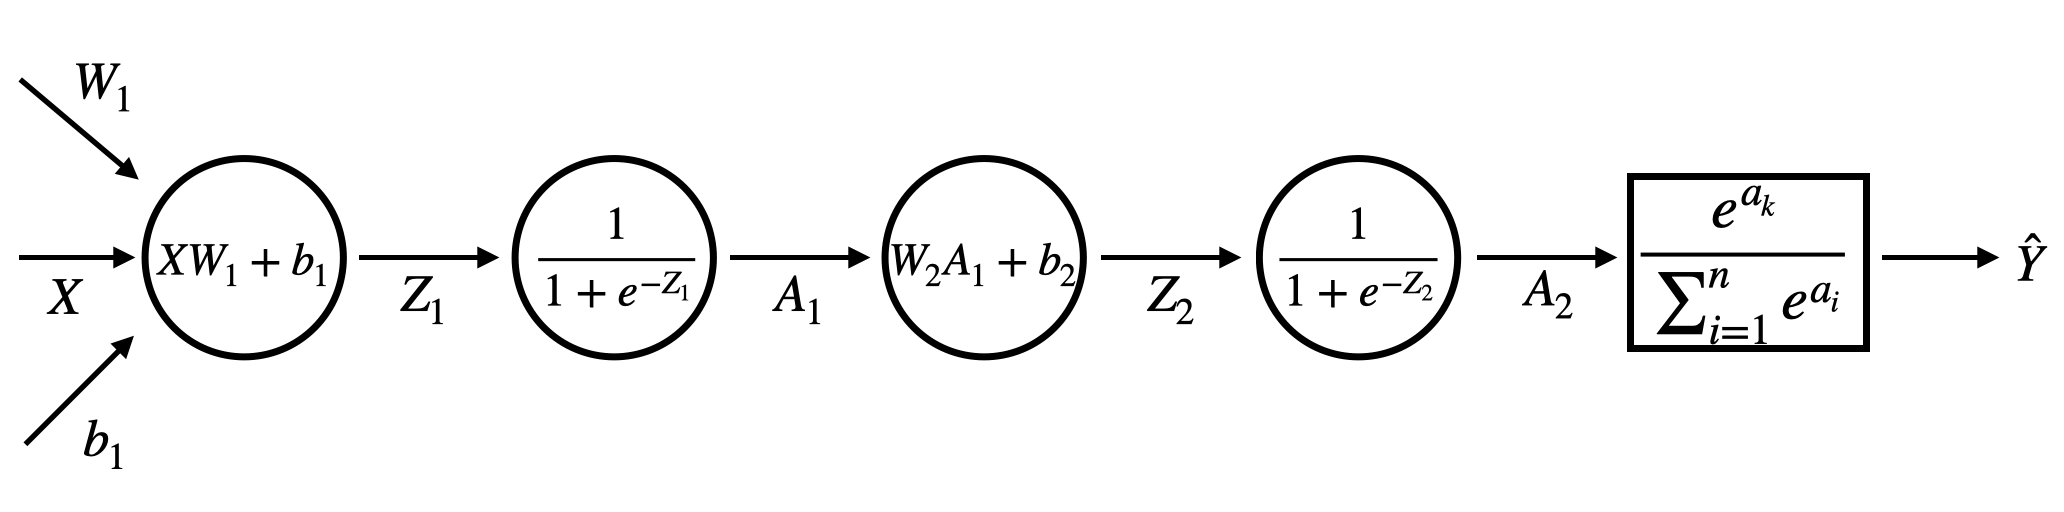
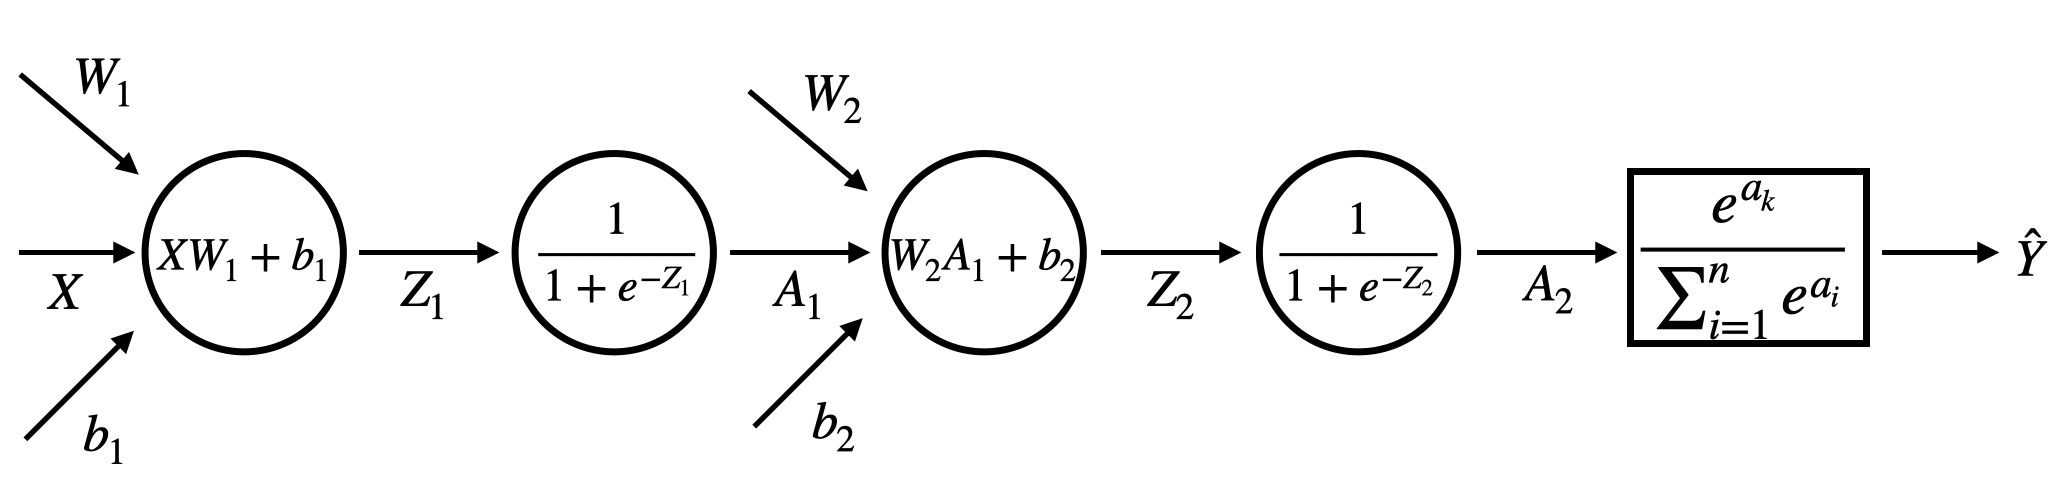
Site updated: 2020-04-05 01:51:09

diff --git a/2020/04/01/Deeplearning-5/index.html b/2020/04/01/Deeplearning-5/index.html
@@ -56,7 +56,7 @@
 <meta property="og:image" content="https://hyeonji-ryu.github.io/images/36.png">
 <meta property="og:image" content="https://hyeonji-ryu.github.io/images/37.png">
 <meta property="article:published_time" content="2020-04-01T08:59:47.000Z">
-<meta property="article:modified_time" content="2020-04-04T15:54:44.114Z">
+<meta property="article:modified_time" content="2020-04-04T16:50:22.185Z">
 <meta property="article:author" content="Hyeonji Ryu">
 <meta property="article:tag" content="딥러닝">
 <meta property="article:tag" content="머신러닝">
@@ -246,7 +246,7 @@
                   <i class="fa fa-calendar-check-o"></i>
                 </span>
                 <span class="post-meta-item-text">Edited on</span>
-                <time title="Updated at: 2020-04-05 00:54:44" itemprop="dateModified" datetime="2020-04-05T00:54:44+09:00">2020-04-05</time>
+                <time title="Updated at: 2020-04-05 01:50:22" itemprop="dateModified" datetime="2020-04-05T01:50:22+09:00">2020-04-05</time>
               </span>
             <span class="post-meta-item">
               <span class="post-meta-item-icon">
@@ -289,17 +289,17 @@ W_1:
  \end{bmatrix}\quad
 W_2:
 \begin{bmatrix}
- w2_{11} & w2_{12}\\
- w2_{21} & w2_{22}\\
+ w2_{11} & w2_{12} & w2_{13}\\
+ w2_{21} & w2_{22} & w2_{23}\\
  \end{bmatrix}</script><script type="math/tex; mode=display">B_1:
 \begin{bmatrix}
 b1_1 & b1_2
  \end{bmatrix}\quad
  B_2:
 \begin{bmatrix}
- b2_1 & b2_2
+ b2_1 & b2_2 & b2_3
  \end{bmatrix}</script><p>먼저 입력값인 $X$와 가중치 $W_1, W_2$, 편향 $b_1, b_2$가 배열로 전제된다. 여기서 가중치와 편향은 뒤의 경사하강법으로 조정할 것이기에 무작위 값을 사용한다.</p>
-<script type="math/tex; mode=display">Z_1 = XW_1+b_1</script><script type="math/tex; mode=display">Z_1=
+<script type="math/tex; mode=display">Z1 = XW_1+b_1</script><script type="math/tex; mode=display">Z1=
 \begin{bmatrix}
  x_1 & x_2 \\
  \end{bmatrix}
@@ -315,31 +315,24 @@ b1_1 & b1_2
 \begin{bmatrix}
 x_1w1_{11}+x_2w1_{21}+b1_1 & x_1w1_{12}+x_2w1_{22}+b1_2
 \end{bmatrix}</script><p>먼저 입력값에 첫 번째 가중치인 $W_1$을 곱하고 첫 번째 편향인 $B_1$ 더한다. 입력값과 가중치, 편향 모두 배열이기에 이 계산은 배열 단위로 이루어진다. 즉, 행렬곱과 행렬덧셈이 사용되는 것이다. 이 과정은 입력값이 첫 번째 활성화 함수로 넘어가기 전에 이루어진다.</p>
-<script type="math/tex; mode=display">A_1 = \cfrac{1}{1+e^{-(XW_1+b_1)}}</script><script type="math/tex; mode=display">A_1 =
+<script type="math/tex; mode=display">A1 = \cfrac{1}{1+e^{-Z1}}</script><script type="math/tex; mode=display">A1 =
 \begin{bmatrix}
-\cfrac{1}{1+e^{-(x_1w1_{11}+x_2w1_{21}+b1_1)}} & \cfrac{1}{1+e^{-(x_1w1_{12}+x_2w1_{22}+b1_2)}}
+\cfrac{1}{1+e^{-Z1_1}} & \cfrac{1}{1+e^{-Z1_2}}
 \end{bmatrix}</script><p>그 다음, 위의 $Z_1$을 활성화 함수에 대입하면 된다. 여기서 $Z_1$은 행렬인데 위의 수식을 $Z_1$의 요소에 각각 적용한다. 참고로 위 식에서 사용된 활성화 함수는 시그모이드 함수이다. 이 과정은 입력값이 첫 번째 은닉층에 도착한 것이다.</p>
-<script type="math/tex; mode=display">Z_2 = \bigg(\cfrac{W_2}{1+e^{-(XW_1+b_1)}}\bigg)\times W_2+b_2</script><script type="math/tex; mode=display">Z_2 =
+<script type="math/tex; mode=display">Z2 = \bigg(\cfrac{W_2}{1+e^{-Z1)}}\bigg)+b_2</script><script type="math/tex; mode=display">=
 \begin{bmatrix}
-\cfrac{1}{1+e^{-(x_1w1_{11}+x_2w1_{21}+b1_1)}} & \cfrac{1}{1+e^{-(x_1w1_{12}+x_2w1_{22}+b1_2)}}
-\end{bmatrix}
-\times
+\cfrac{w2_{11}}{1+e^{-Z1_1}}+\cfrac{w2_{21}}{1+e^{-Z1_2}}+b2_1 & \cfrac{w2_{12}}{1+e^{-Z1_1}}+\cfrac{w2_{22}}{1+e^{-Z1_2}}+b2_2 & \cfrac{w2_{13}}{1+e^{-Z1_1}}+\cfrac{w2_{23}}{1+e^{-Z1_2}}+b2_3
+\end{bmatrix}</script><p>$A1$의 값은 행렬로 반환된다. $A1$을 다시 두 번째 은닉층으로 보내기 위해 두 번째 가중치인 $W_2$를 곱하고 두 번째 편향인 $b_2$를 더한다. 여기서도 행렬곱과 행렬덧셈이 사용된다. 행렬 단위로 계산되는 수식은 $Z1$과 동일하다.</p>
+<script type="math/tex; mode=display">A2 = \cfrac{1}{1+e^{-Z2}}</script><script type="math/tex; mode=display">A2 =
 \begin{bmatrix}
- w2_{11} & w2_{12}\\
- w2_{21} & w2_{22}\\
- \end{bmatrix}
-+
+\cfrac{1}{1+e^{-Z2_1}} & \cfrac{1}{1+e^{-Z2_2}} & \cfrac{1}{1+e^{-Z2_3}}
+\end{bmatrix}</script><p>두 번째 은닉층을 계산해야 한다. 가중치와 편향을 계산한 입력값을 다시 활성화 함수에 변수로 대입한다. 두 번째 은닉층의 활성화 함수도 시그모이드 함수를 사용하였다. 행렬 단위로 적용되는 수식은 $A1$과 동일하다.</p>
+<script type="math/tex; mode=display">\hat{y_k}=\cfrac{e^{a_k}}{\sum_{i=1}^n e^{a_i}}</script><script type="math/tex; mode=display">\hat{y}=
 \begin{bmatrix}
- b2_1 & b2_2
- \end{bmatrix}</script><script type="math/tex; mode=display">=
-\begin{bmatrix}
-\frac{w2_{11}}{1+e^{-(x_1w1_{11}+x_2w1_{21}+b1_1)}} + \frac{w2_{21}}{1+e^{-(x_1w1_{12}+x_2w1_{22}+b1_2)}} + b2_1&
- & \frac{w2_{12}}{1+e^{-(x_1w1_{11}+x_2w1_{21}+b1_1)}} + \frac{w2_{21}}{1+e^{-(x_1w1_{22}+x_2w1_{22}+b1_2)}} +b2_2
-\end{bmatrix}</script><p>$A_1$의 값은 행렬로 반환된다. $A_1$을 다시 두 번째 은닉층으로 보내기 위해 두 번째 가중치인 $W_2$를 곱하고 두 번째 편향인 $b_2$를 더한다. 여기서도 행렬곱과 행렬덧셈이 사용된다.</p>
-<p>$A_2 = \cfrac{1}{1+e^{-(\frac{W_2}{1+e^{-XW_1}\times e^{-b_1}}+b_2)}} = \cfrac{1}{1+e^{-(\frac{W_2}{1+e^{-XW_1}\times e^{-b_1}})} \times e^{-b_2}}$</p>
-<p>두 번째 은닉층을 계산해야 한다. 가중치와 편향을 계산한 입력값을 다시 활성화 함수에 변수로 대입한다. 두 번째 은닉층의 활성화 함수도 시그모이드 함수를 사용하였다.</p>
-<p>$\hat{y<em>k}=\cfrac{e^{a_k}}{\sum</em>{i=1}^n e^{a_i}}$</p>
-<p>이제 은닉층 계산은 모두 끝났다. 마지막으로 출력층 활성화 함수인 소프트맥스 함수를 적용하여 예측값 $\hat{y}$을 얻을 것이다.</p>
+\cfrac{e^{A2_1}}{\sum_{i=1}^n e^{A2_i}} & \cfrac{e^{A2_2}}{\sum_{i=1}^n e^{A2_i}} & \cfrac{e^{A2_3}}{\sum_{i=1}^n e^{A2_i}}
+\end{bmatrix}</script><p>은닉층 계산 이후 마지막으로 출력층 활성화 함수인 소프트맥스 함수를 적용하여 예측값 $\hat{y}$을 얻었다.</p>
+<p>위의 식을 토대로 우리는 예측값을 아래와 같은 형태로 정의할 수 있다.</p>
+<p>$$\hat{y}=</p>
 
     </div>
 

diff --git a/index.html b/index.html
@@ -311,7 +311,7 @@
                   <i class="fa fa-calendar-check-o"></i>
                 </span>
                 <span class="post-meta-item-text">Edited on</span>
-                <time title="Updated at: 2020-04-05 00:54:44" itemprop="dateModified" datetime="2020-04-05T00:54:44+09:00">2020-04-05</time>
+                <time title="Updated at: 2020-04-05 01:50:22" itemprop="dateModified" datetime="2020-04-05T01:50:22+09:00">2020-04-05</time>
               </span>
             <span class="post-meta-item">
               <span class="post-meta-item-icon">
